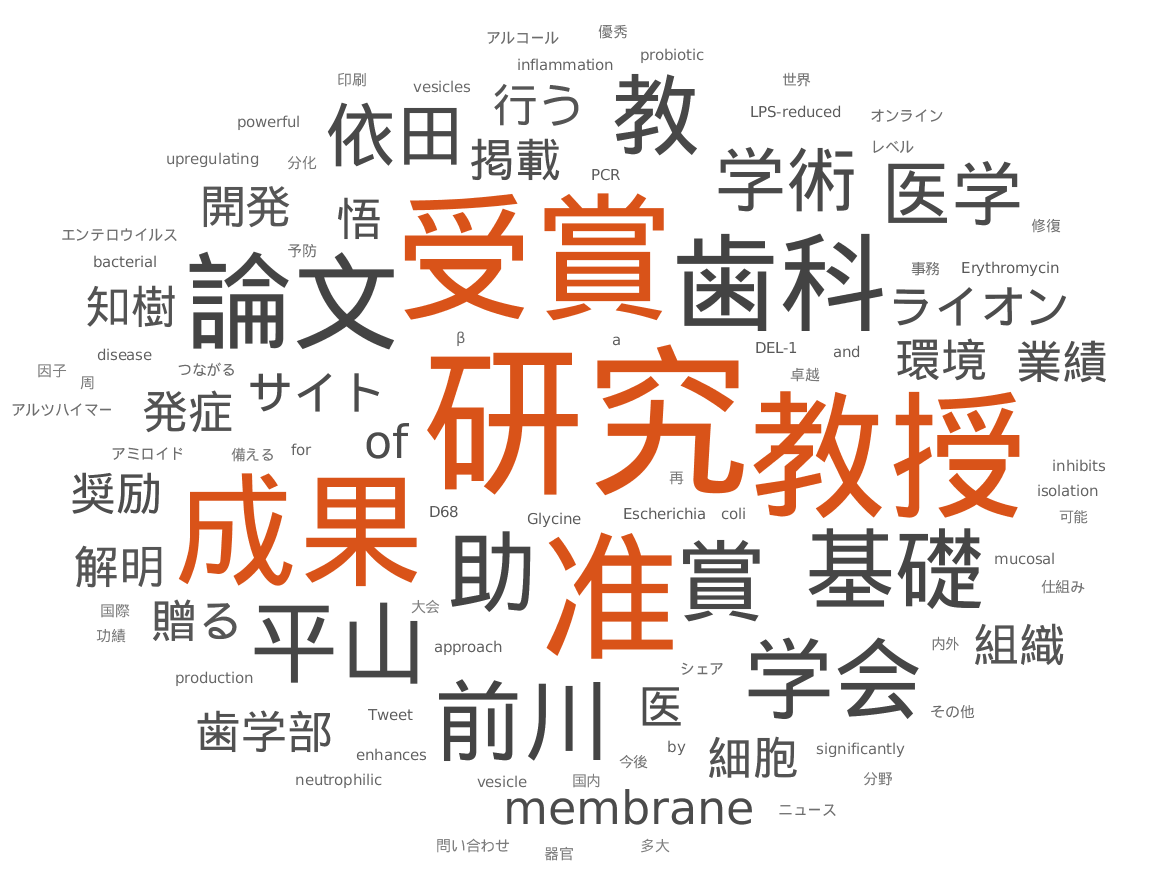
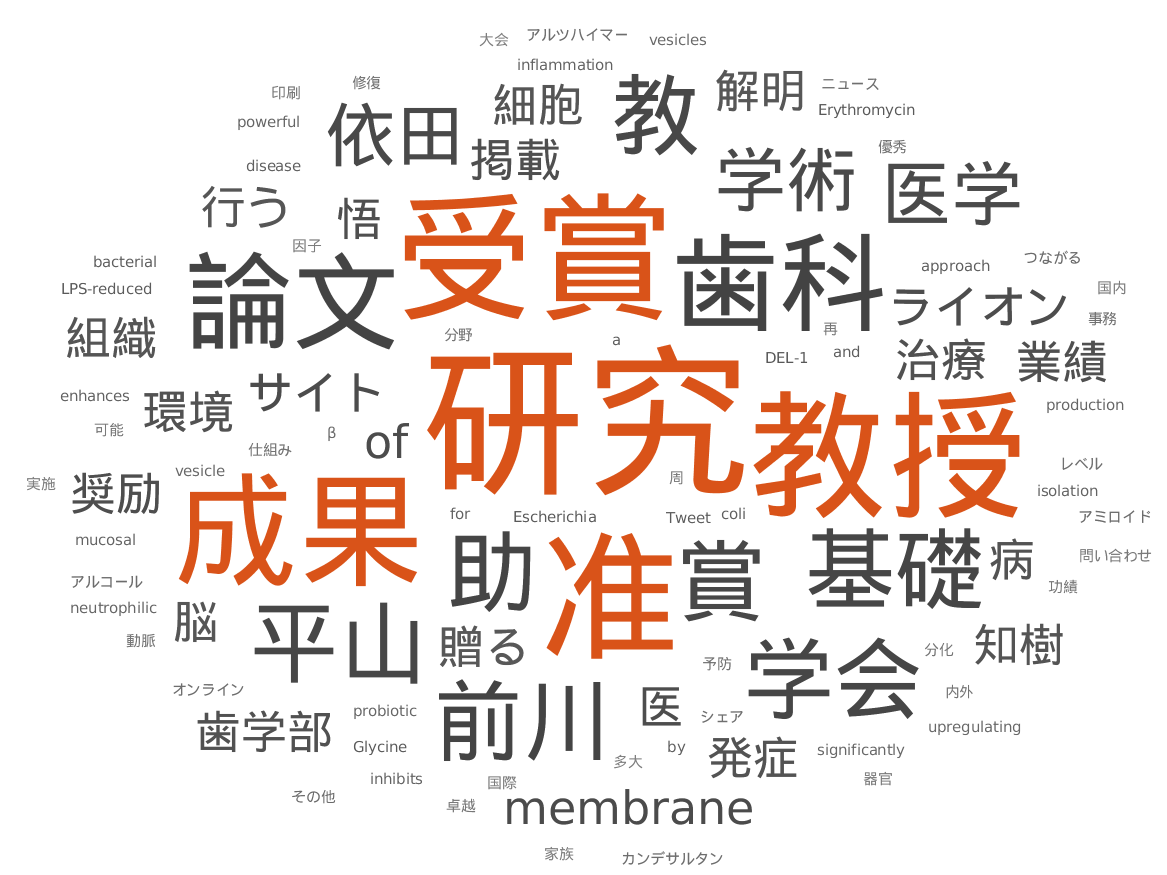
CI autogen [ci skip]

diff --git a/docs/_posts/2021-11-16-「令和3年度地域活動・学生発表交流会～活動のブラッシュアップ・意見交換会（第1回目）～」を開催しました.md b/docs/_posts/2021-11-16-「令和3年度地域活動・学生発表交流会～活動のブラッシュアップ・意見交換会（第1回目）～」を開催しました.md
@@ -1,0 +1,7 @@
+---
+layout: post
+title: 「令和3年度地域活動・学生発表交流会～活動のブラッシュアップ・意見交換会（第1回目）～」を開催しました
+---
+Autogenerated Word Cloud.
+Source\: [https://www.niigata-u.ac.jp/news/2021/96455/](https://www.niigata-u.ac.jp/news/2021/96455/)
+![WordCloud]({{ site.baseurl }}/assets/e0913edc4835b2926431c0e05e1ab3a1.png)

diff --git a/docs/_posts/2021-11-16-遺伝性脳小血管病に対するカンデサルタンの有効性を確認－脳動脈硬化の新たな治療法として期待－.md b/docs/_posts/2021-11-16-遺伝性脳小血管病に対するカンデサルタンの有効性を確認－脳動脈硬化の新たな治療法として期待－.md
@@ -1,0 +1,7 @@
+---
+layout: post
+title: 遺伝性脳小血管病に対するカンデサルタンの有効性を確認－脳動脈硬化の新たな治療法として期待－
+---
+Autogenerated Word Cloud.
+Source\: [https://www.niigata-u.ac.jp/news/2021/96537/](https://www.niigata-u.ac.jp/news/2021/96537/)
+![WordCloud]({{ site.baseurl }}/assets/7130d9c44a8f8454996764ef1569e3ea.png)
